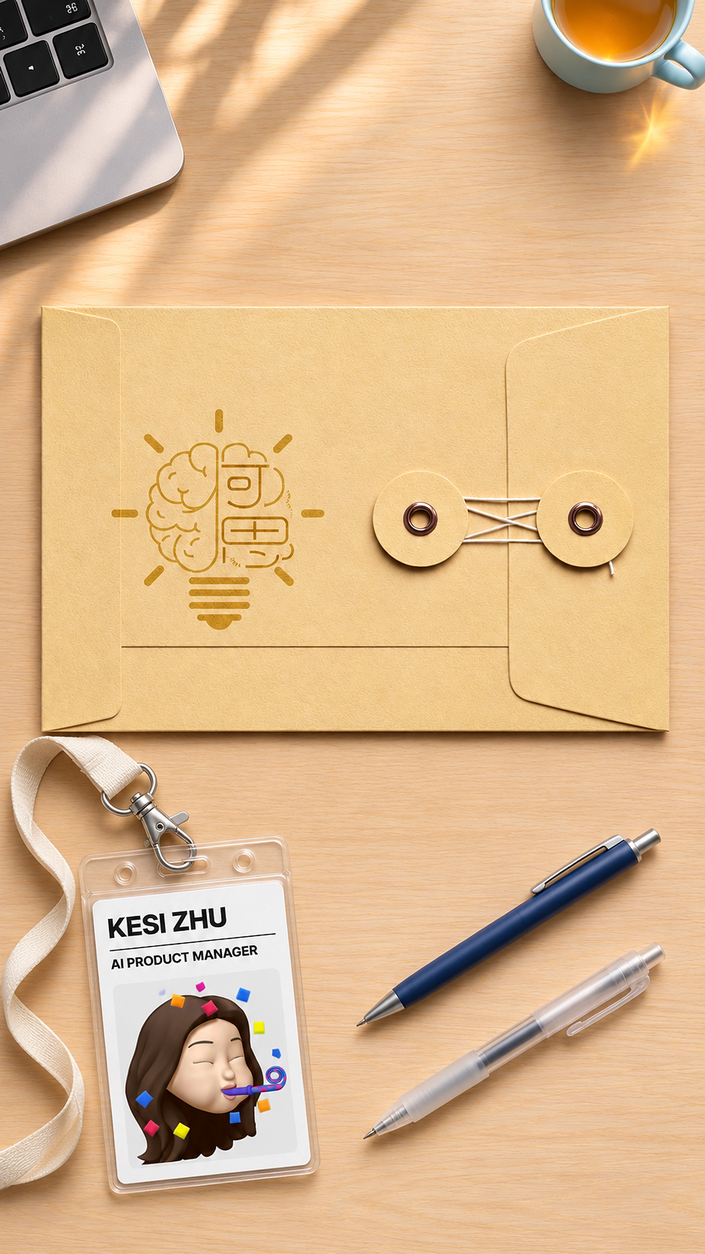
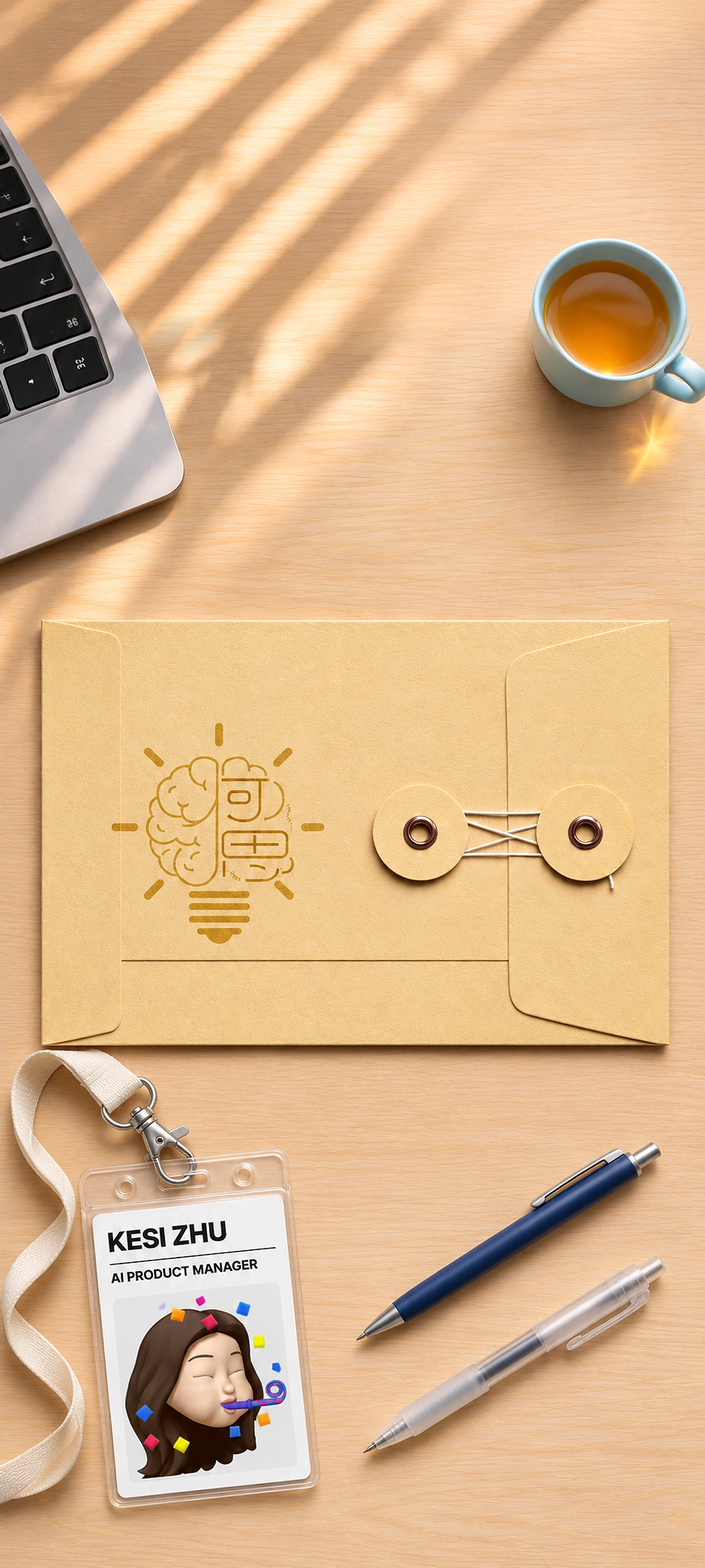
fix: extend mobile opening backdrop

diff --git a/src/components/FolderIntro.module.css b/src/components/FolderIntro.module.css
@@ -61,6 +61,6 @@
 .page { position: absolute; inset: 0; z-index: 3; overflow: hidden; background: #f2ead9; pointer-events: none; }
 @media (orientation: portrait) {
   .desk { --scene: url("/assets/workbench-mobile.webp"); }
-  .scene { width: min(100%, calc(100dvh * 941 / 1672)); aspect-ratio: 941 / 1672; }
-  .bag { left: 5.84%; top: 24.4%; width: 89.05%; height: 34%; }
+  .scene { width: min(100%, calc(100dvh * 941 / 2090)); aspect-ratio: 941 / 2090; }
+  .bag { left: 5.84%; top: 39.52%; width: 89.05%; height: 27.2%; }
 }
